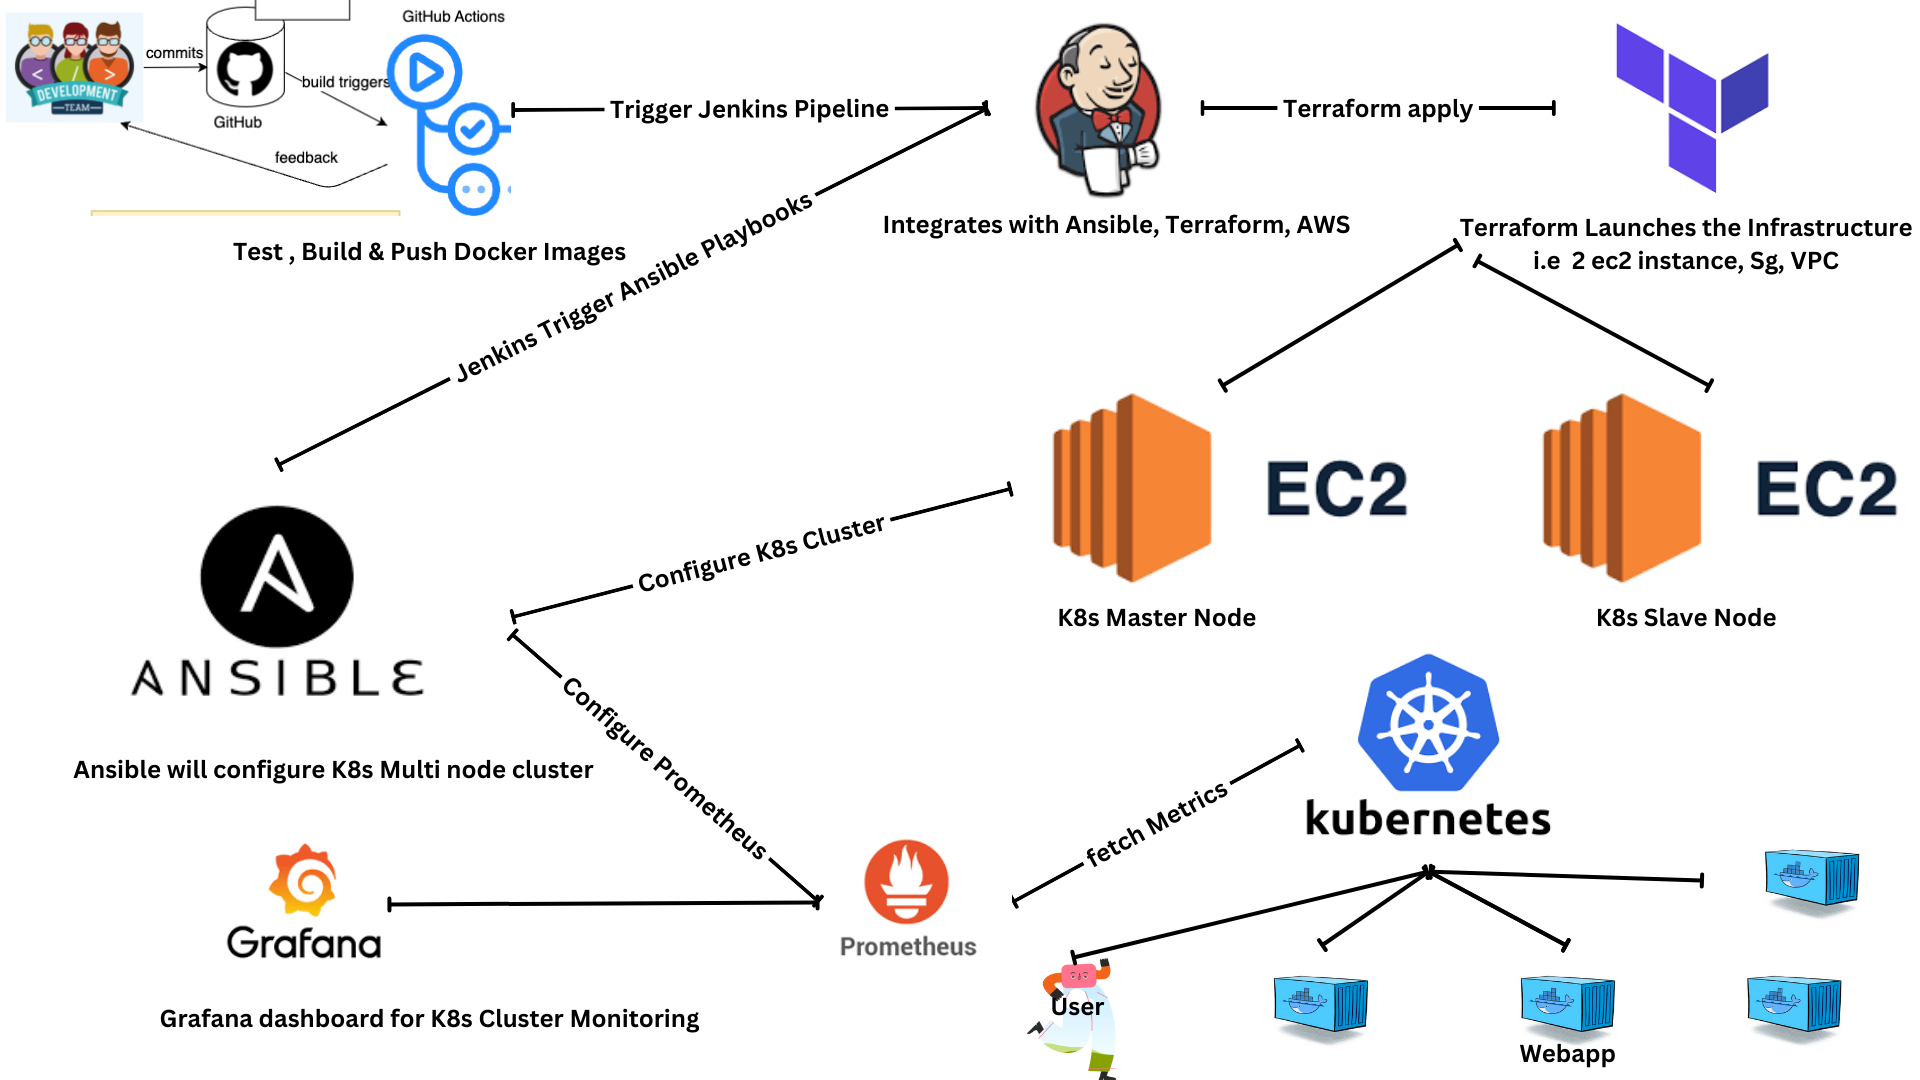
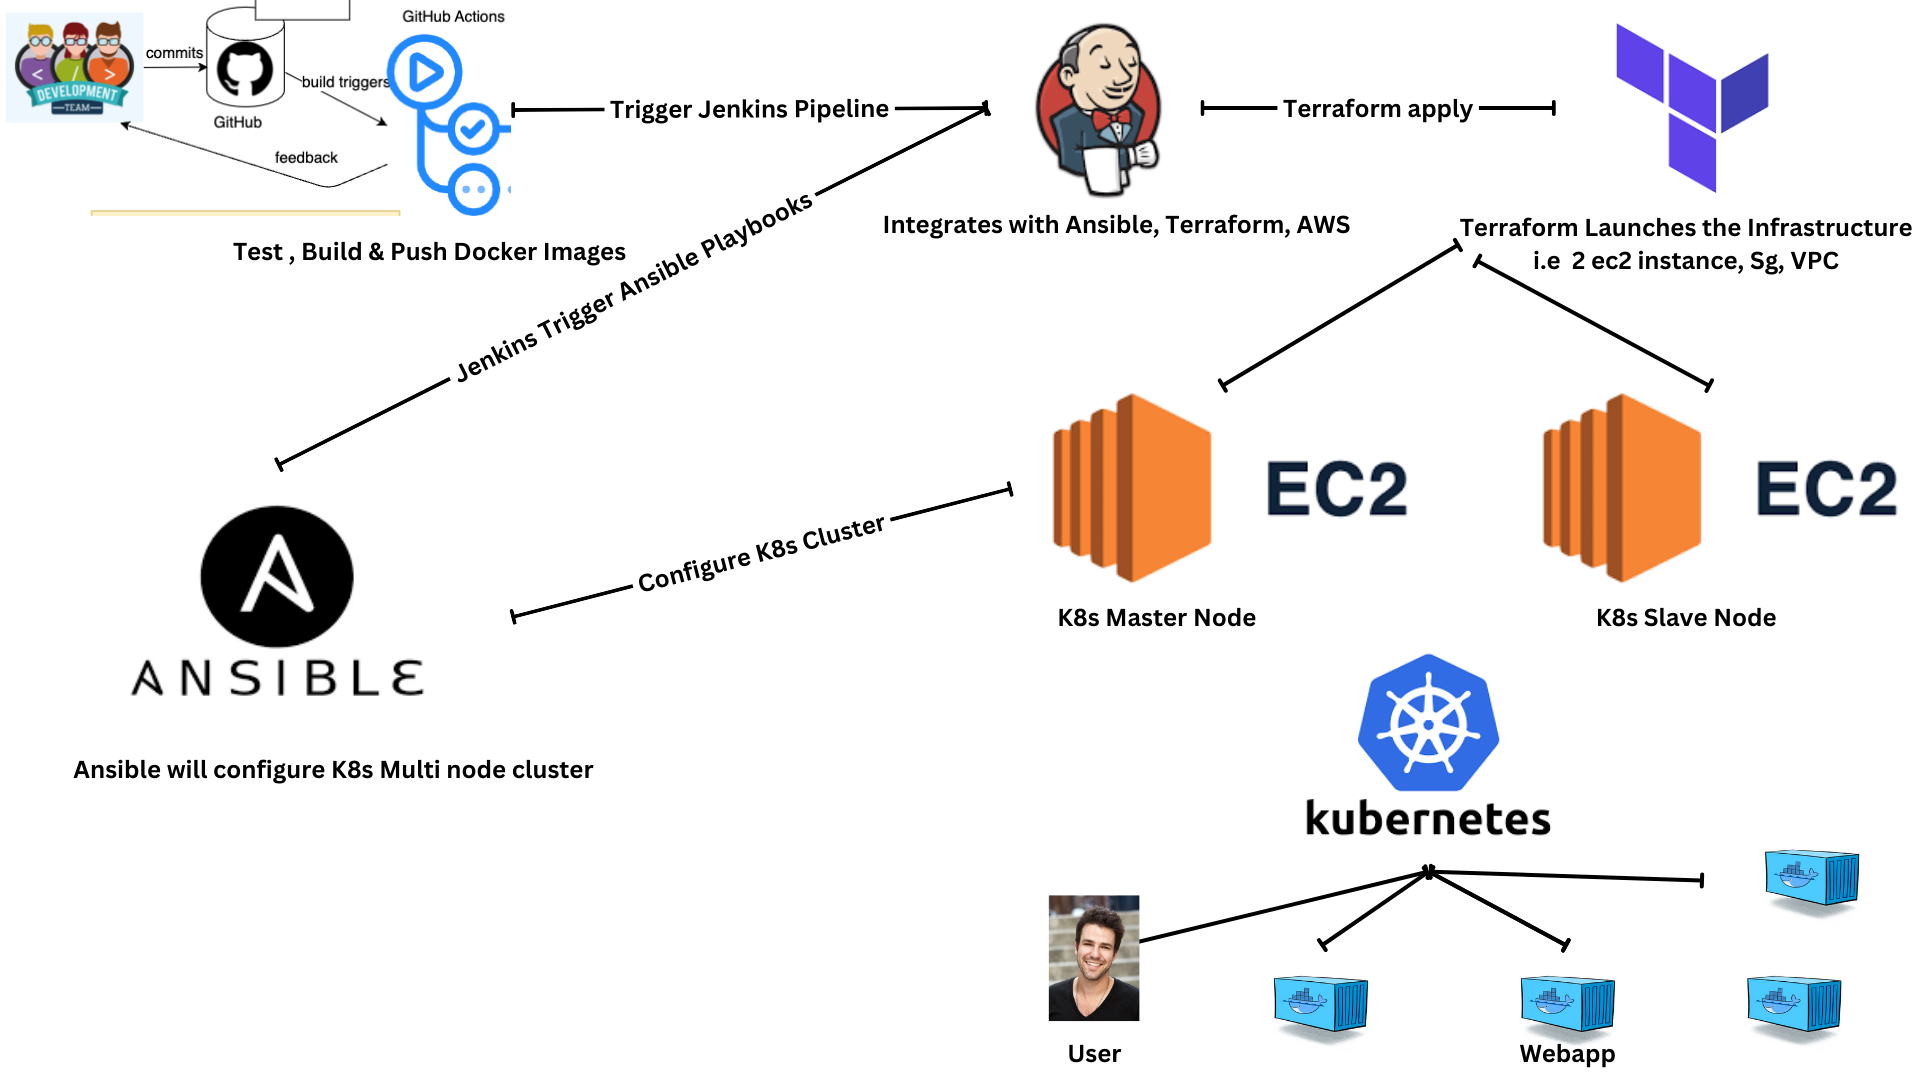
updates

diff --git a/README.md b/README.md
@@ -1,6 +1,6 @@
 # Advanced End-to-End DevOps Project 
 
-This repository contains an advanced end-to-end DevOps project that integrates various tools such as Git, Docker, Kubernetes, Helm, GitHub Actions, Jenkins, Terraform, Ansible, Prometheus, Grafana, AWS, and Shell scripts. The project sets up a continuous integration and deployment pipeline.
+This repository contains an advanced end-to-end DevOps project that integrates various tools such as Git, Docker, Kubernetes, Helm, GitHub Actions, Jenkins, Terraform, Ansible, AWS, and Shell scripts. The project sets up a continuous integration and deployment pipeline.
 
 ## Architecture Diagram
 
@@ -9,9 +9,9 @@ This repository contains an advanced end-to-end DevOps project that integrates v
 ## WebApp Overview
 
 - We are going to deploy below game app on the K8s cluster.
-![Snake Game Webapp](Screenshots/webapp.png)
+![Exposed API /api/weather](Screenshots/webapp-weather.png)
+![Exposed API /api/weather/stats](Screenshots/webapp-stats.png)
 
-My recorded session for this project is uploaded on GeeksForGeeks - https://www.geeksforgeeks.org/batch/devops-22?tab=Live
 
 ## Project Overview
 
@@ -49,7 +49,7 @@ My recorded session for this project is uploaded on GeeksForGeeks - https://www.
 
 ### Step 9 Make Changes and Test
 - Make changes in your code locally, push to GitHub, and create a pull request.
-- GitHub Actions will build, test, and push the Docker image.
+- GitHub Actions will build, and push the Docker image.
 - Merge the pull request to trigger the Jenkins pipeline, Which will deploy your app on top of k8s cluster
 
 ### Step 10: Jenkins Pipeline Stages
@@ -58,34 +58,11 @@ My recorded session for this project is uploaded on GeeksForGeeks - https://www.
 - Setup Terraform
 - Create Infrastructure for PROD
 - Configure multi node k8s cluster on the created infrastructure
-- Configure Monitoring Tool
-- Deploy the Webserver
+- Deploy the Model, Which will perform data ingestion and api expose
 - ![Jenkins Pipeline Stage View](Screenshots/jenkinspipeline.png)
 
-### Step 11: Access the Deployed Webserver
-- Visit http://<your-Prodserver-ip>:8080 to see the deployed webserver.
-
-### Step 12 Create a Socat for Prometheus and Grafana to access them from the internet: 
-- Prometheus and Grafana servers are running they have been exposed also to the base system, but this k8s cluster we have created on AWS, So if you want to connect to these servers from the Internet(outside of your ec2 instance) you can create an extra socket(for my app webserver, I already did it with a shell script named `startservers.sh`) Simarly you can do for Prometheus and Grafana.
-- `#sudo minikube service prometheus-server-ext` This command will show you on which NodePort this Server is been exposed.
-- `#sudo socat TCP4-LISTEN:9090,fork,su=nobody TCP4:<minikube IP>:<Node Port> &` Now we have created a socket, So you can use the public IP of your ec2 server and access the Prometheus dashboard at port no 9090
-
-Simarly we can do for Grafana
-
-- `#sudo minikube service grafana-ext` - Get the NodePort
-- `#sudo socat TCP4-LISTEN:3000,fork,su=nobody TCP4:<minikube IP>:<Node Port> &`
-
-Get the Grafana dashboard at port no 3000 on your server
-
-### Step 13 Create Grafana Dashboard: 
-- Got to Grafana server - http://<your-Prodserver-ip>:3000
-- Add the Prometheus datasource to grafana
-- Visit [View Pre-Created Grafan Dashbords](https://grafana.com/grafana/dashboards/) to select a pre-created dashboard for monitoring the k8s server, you can copy that dashboard ID, and instead of creating the dashboard from scratch we can import a pre-created dashboard.
-- Now you are good to go! Visualize your complete k8s cluster Now!
-
-- ![Grafana Dashboard Monitoring K8s Cluster](Screenshots/GrafanaView.png)
-
-Connect with me on LinkedIn in any kind of challenges - [Linkedin](https://www.linkedin.com/in/sudhanshu--pandey/)
+### Step 11: Access the Exposed API
+- Visit http://<K8sMaster-ip>:5000 to see the deployed webserver.
 
 
 # Action Required: Update CRI-O Installation URL
@@ -105,5 +82,5 @@ Update the URL to the latest version. You can find the updated URL from the CRI-
 
 2) Long-term Solution:
 
-Instead of manually updating the URL every time, consider configuring a yum repository for CRI-O. This will allow the playbook to pull the latest version automatically, reducing the need for manual intervention.
+Instead of manually updating the URL every time, we can consider configuring a yum repository for CRI-O. This will allow the playbook to pull the latest version automatically, reducing the need for manual intervention.
 This approach will streamline the process and ensure that the playbook remains up-to-date with the latest CRI-O version.
